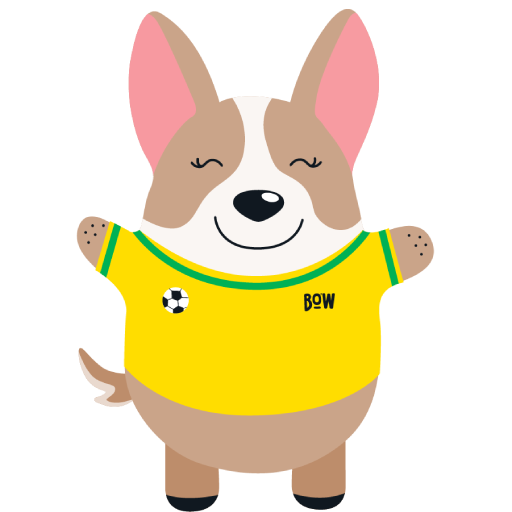
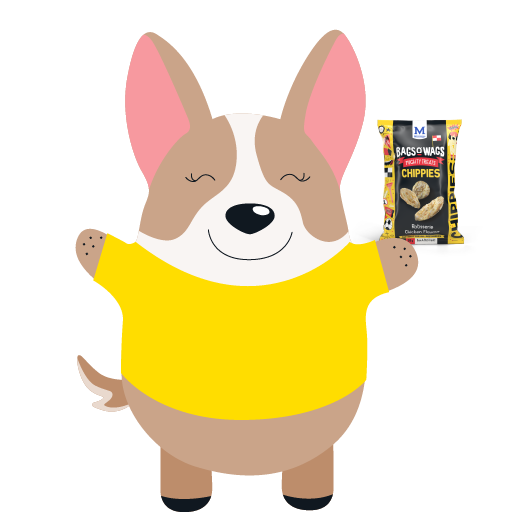
Add Level 1 stairs with GUI settings

Changed region(s): [[0.125, 0.0, 0.9062, 1.0], [0.2188, 0.1562, 0.3125, 0.375]]

diff --git a/src/app/page.tsx b/src/app/page.tsx
@@ -126,6 +126,7 @@ export default function Home() {
 							if ((window as any).updateNet) (window as any).updateNet();
 							if ((window as any).applyFieldLinesSettings) (window as any).applyFieldLinesSettings();
 							if ((window as any).updateGrandstand) (window as any).updateGrandstand();
+							if ((window as any).updateStairs) (window as any).updateStairs();
 						}
 						return newLevel;
 					});
@@ -780,6 +781,7 @@ export default function Home() {
 					if ((window as any).updateGrass) (window as any).updateGrass();
 					if ((window as any).updateStones) (window as any).updateStones();
 					if ((window as any).updateGrandstand) (window as any).updateGrandstand();
+					if ((window as any).updateStairs) (window as any).updateStairs();
 				}
 			},
 			jumpToLevel2: () => {
@@ -799,6 +801,7 @@ export default function Home() {
 					if ((window as any).updateGrass) (window as any).updateGrass();
 					if ((window as any).updateStones) (window as any).updateStones();
 					if ((window as any).updateGrandstand) (window as any).updateGrandstand();
+					if ((window as any).updateStairs) (window as any).updateStairs();
 				}
 			},
 			jumpToLevel3: () => {
@@ -818,6 +821,7 @@ export default function Home() {
 					if ((window as any).updateGrass) (window as any).updateGrass();
 					if ((window as any).updateStones) (window as any).updateStones();
 					if ((window as any).updateGrandstand) (window as any).updateGrandstand();
+					if ((window as any).updateStairs) (window as any).updateStairs();
 				}
 			}
 		};
@@ -1345,6 +1349,63 @@ export default function Home() {
 		gsFolder.add((window as any).grandstandSettings, 'posX', -50, 50).name('Pos X').onChange(updateGrandstand);
 		gsFolder.add((window as any).grandstandSettings, 'posY', -10, 30).name('Pos Y').onChange(updateGrandstand);
 		gsFolder.add((window as any).grandstandSettings, 'posZ', 10, 100).name('Pos Z').onChange(updateGrandstand);
+
+		// --- Level 1 Stairs ---
+		const stairsMat = new StandardMaterial("stairsMat", scene);
+		stairsMat.diffuseTexture = new Texture("/level_01_stairs/stairs_01.png", scene, true, true);
+		stairsMat.diffuseTexture.hasAlpha = true;
+		stairsMat.useAlphaFromDiffuseTexture = true;
+		stairsMat.emissiveColor = new Color3(1, 1, 1);
+		stairsMat.disableLighting = true;
+
+		const stairs = MeshBuilder.CreatePlane("stairs", { size: 10 }, scene);
+		stairs.material = stairsMat;
+		stairs.billboardMode = Mesh.BILLBOARDMODE_Y;
+		
+		(window as any).stairsSettings = {
+			enabled: true,
+			scale: 1,
+			posX: 0, posY: 0, posZ: 15
+		};
+
+		const updateStairs = () => {
+			const level = (window as any).gameManager?.level || 1;
+			const st = (window as any).stairsSettings;
+			
+			if (level === 1 && st.enabled) {
+				stairs.isVisible = true;
+				const applyScale = (t: Texture) => {
+					if (t.getSize) {
+						const size = t.getSize();
+						const aspect = (size.width && size.height) ? size.width / size.height : 1;
+						stairs.scaling.set(st.scale * aspect, st.scale, st.scale);
+					} else {
+						stairs.scaling.set(st.scale, st.scale, st.scale);
+					}
+				};
+
+				if (stairsMat.diffuseTexture && (stairsMat.diffuseTexture as Texture).isReady()) {
+					applyScale(stairsMat.diffuseTexture as Texture);
+				} else if (stairsMat.diffuseTexture) {
+					(stairsMat.diffuseTexture as Texture).onLoadObservable.addOnce(() => applyScale(stairsMat.diffuseTexture as Texture));
+				} else {
+					stairs.scaling.set(st.scale, st.scale, st.scale);
+				}
+
+				stairs.position.set(st.posX, st.posY, st.posZ);
+			} else {
+				stairs.isVisible = false;
+			}
+		};
+		(window as any).updateStairs = updateStairs;
+		updateStairs();
+
+		const stairsFolder = gui.addFolder('Level 1 Stairs');
+		stairsFolder.add((window as any).stairsSettings, 'enabled').name('Enabled').onChange(updateStairs);
+		stairsFolder.add((window as any).stairsSettings, 'scale', 0.1, 5).name('Scale').onChange(updateStairs);
+		stairsFolder.add((window as any).stairsSettings, 'posX', -50, 50).name('Pos X').onChange(updateStairs);
+		stairsFolder.add((window as any).stairsSettings, 'posY', -10, 30).name('Pos Y').onChange(updateStairs);
+		stairsFolder.add((window as any).stairsSettings, 'posZ', 10, 100).name('Pos Z').onChange(updateStairs);
 
 		// --- Level 1 Grass Decals ---
 		const grassSettings: any = {};